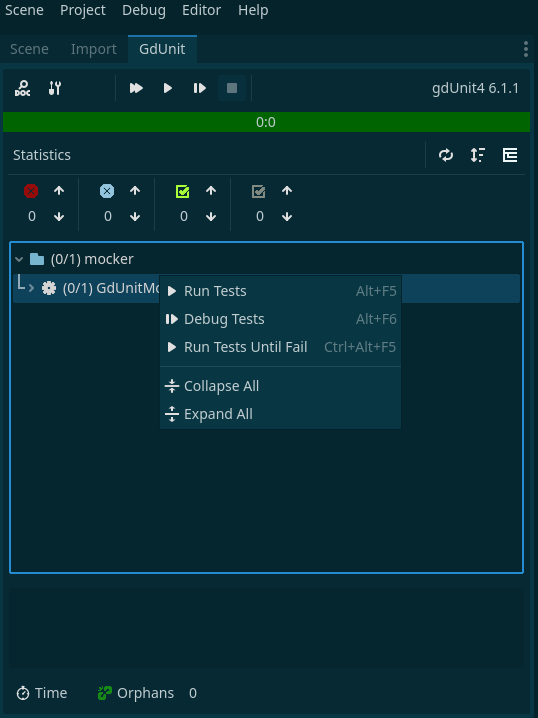
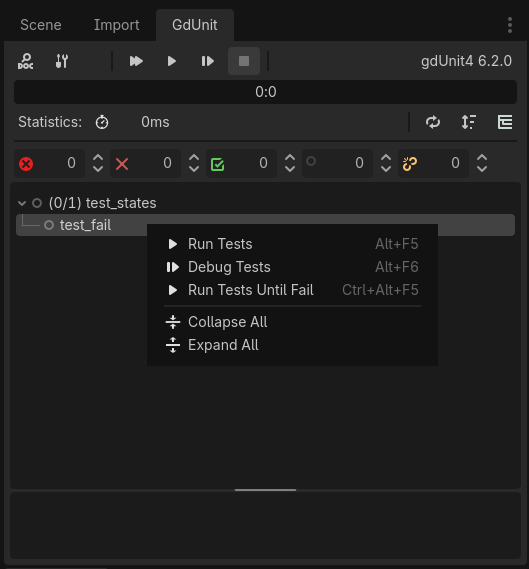
DOC-1255: Update test inspector documentation for the reworked panel (#1258)
## Why

The v6.2.0 release reworked the test inspector panel, changing the
toolbar, adding an orphan-node counter and navigation to the status bar,
giving tree entries outcome icons, and making failure call stacks
clickable in both runtime and debug mode, so the published inspector
documentation and every one of its screenshots no longer match what
users actually see in the editor.

## What

- Split the old combined run-tests page into a dedicated inspector
reference page and a separate how-to-run-tests page, since the original
mixed panel anatomy with the different ways to trigger a run
- Replaced every inspector screenshot and added small per-control icon
captures so each reference table row shows the actual button or
indicator instead of a bare number
- Corrected two inaccuracies found while updating the content, a wrong
description of the tree-resync button and a stale note claiming call
stacks are only available in debug mode
- Updated cross-page links across the first-steps and C# setup docs that
pointed at the old page or its old anchors

Closes #1255

diff --git a/documentation/doc/_first_steps/inspector.md b/documentation/doc/_first_steps/inspector.md
@@ -1,0 +1,137 @@
+---
+layout: default
+title: Test Inspector
+nav_order: 3
+---
+
+# The GdUnit Test Inspector
+
+The GdUnit Test Inspector is your entry point for running tests and reviewing their results. This page explains what each part of the inspector shows;
+for the different ways to trigger a test run, see [How to Run Tests]({{site.baseurl}}/first_steps/how-to-run-tests/).
+
+## Overview
+
+The GdUnit inspector provides an overview of the currently executed tests and allows you to navigate them.
+It allows you to select individual tests and view possible test failures, including the full call stack. The integrated status bar gives you a quick overview
+of the last test run, including elapsed time and orphan nodes.
+
+![GdUnit inspector overview]({{site.baseurl}}/assets/images/inspector/inspector.png){:.centered}
+
+- (1) [Button Bar](#button-bar)
+- (2) [Status Bar](#status-bar)
+- (3) [Test Run Overview](#test-run-overview-tree)
+- (4) [Failure Report](#failure-report)
+
+---
+
+## Button Bar
+
+The button bar contains several buttons that allow you to perform different actions in GdUnit:
+![button-bar]({{site.baseurl}}/assets/images/inspector/button-bar.png){:.centered}
+
+| Preview | Description |
+| ------- | ----------- |
+| ![doc button]({{site.baseurl}}/assets/images/inspector/icons/btn-doc.png) | Opens the GdUnit documentation page in your browser |
+| ![settings button]({{site.baseurl}}/assets/images/inspector/icons/btn-settings.png) | Opens the GdUnit settings window |
+| ![run overall button]({{site.baseurl}}/assets/images/inspector/icons/btn-run-overall.png) | Run Overall tests |
+| ![run button]({{site.baseurl}}/assets/images/inspector/icons/btn-run.png) | (Re)Run the tests in runtime mode |
+| ![debug button]({{site.baseurl}}/assets/images/inspector/icons/btn-debug.png) | (Re)Run the tests in debug mode |
+| ![stop button]({{site.baseurl}}/assets/images/inspector/icons/btn-stop.png) | Stops the current test run |
+|  | Displays the version of GdUnit |
+
+Note that the keyboard shortcuts for these buttons may vary depending on your specific GdUnit configuration.
+
+### The Run Overall Button
+
+The **Run Overall** button provides a convenient way to execute all the tests in your project at once, instead of running them one by one or selecting
+a custom set of tests. By clicking the "Run Overall" button, you can initiate the execution of all the tests in your project, saving you time and effort.
+![overall-button]({{site.baseurl}}/assets/images/inspector/overall-button.png){:.centered}
+To enable the **Run Overall** button in GdUnit4, you need to adjust the [UI settings]({{site.baseurl}}/first_steps/settings/#ui-settings).<br>
+Once you have enabled the **Run Overall** button, it should be visible in the inspector.
+
+---
+
+## Status Bar
+
+This area gives you information about the current/last test execution, such as the progress, the elapsed time, and errors/failures/orphans found.<br>
+With the arrow buttons, you can navigate back and forth over found failures, errors, flaky tests, skipped tests, and orphan nodes.<br>
+![status-bar]({{site.baseurl}}/assets/images/inspector/status-bar.png){:.centered}
+
+- **Indicators**
+
+    | Preview | Description |
+    | ------- | ----------- |
+    | ![progress indicator]({{site.baseurl}}/assets/images/inspector/icons/count-progress.png) | Test execution progress (indicator of test run) |
+    | ![error count]({{site.baseurl}}/assets/images/inspector/icons/count-error.png)   | Number of errors (parse/runtime errors) |
+    | ![failure count]({{site.baseurl}}/assets/images/inspector/icons/count-failed.png)  | Number of failures                      |
+    | ![flaky count]({{site.baseurl}}/assets/images/inspector/icons/count-flaky.png)   | Number of flaky tests                   |
+    | ![skipped count]({{site.baseurl}}/assets/images/inspector/icons/count-skipped.png) | Number of skipped tests                 |
+    | ![orphan count]({{site.baseurl}}/assets/images/inspector/icons/count-orphan.png)  | Number of detected orphan nodes         |
+
+- **Controls**
+
+    | Preview | Description |
+    | ------- | ----------- |
+    | ![rediscover tests]({{site.baseurl}}/assets/images/inspector/icons/action-refresh.png) | Rediscover tests (rescans the project for testsuites without running them) |
+    | ![sort mode]({{site.baseurl}}/assets/images/inspector/icons/action-sort.png)    | Change sort tree mode (asc/desc/time)                                      |
+    | ![tree presentation]({{site.baseurl}}/assets/images/inspector/icons/action-tree.png)    | Change the test tree presentation (tree/flat)                              |
+
+- **Sorting Options**
+
+    The sorting option controls how the test results are displayed in the inspector tree. You can sort the results by:
+
+  - **Unsorted**: The natural order.
+  - **Name Ascending**: Sorts the test cases alphabetically from A to Z.
+  - **Name Descending**: Sorts the test cases alphabetically from Z to A.
+  - **Test Execution Time**: Sorts the test cases based on the time they took to execute, from longest to shortest.
+
+- **Tree Presentation**
+
+    The tree presentation setting allows you to switch between two views:
+
+  - **Flat View**: Displays all test cases in a single, flat list without any hierarchical structure.
+  - **Tree View**: Displays test cases in a hierarchical structure, reflecting the path of your test files and suites.
+
+---
+
+## Test Run Overview Tree
+
+This area provides an overview of all executed/executing tests and their execution status in real-time. Each entry shows its execution time and, when a
+test was retried (for example a flaky test or a test run with
+[**Run Tests Until Fail**]({{site.baseurl}}/first_steps/how-to-run-tests/#using-the-inspector-context-menu)),
+the number of retries. Here, you can navigate through the tests and view the report for each individual test by selecting it. You can also run the
+currently selected test or test suite again by right-clicking to open a context menu.
+![test-overview]({{site.baseurl}}/assets/images/inspector/test-overview.png){:.centered}
+
+Each test is prefixed with an icon showing its outcome:
+
+| Icon | Meaning |
+| ---- | ------- |
+| ![passed icon]({{site.baseurl}}/assets/images/inspector/icons/state-success.png) | Passed |
+| ![failed icon]({{site.baseurl}}/assets/images/inspector/icons/state-failed.png) | Failed (a used assert reported a mismatch) |
+| ![error icon]({{site.baseurl}}/assets/images/inspector/icons/state-error.png) | Error (an unhandled runtime error or script error) |
+| ![flaky icon]({{site.baseurl}}/assets/images/inspector/icons/state-flaky.png) | Flaky (failed at least once but passed on retry) |
+| ![skipped icon]({{site.baseurl}}/assets/images/inspector/icons/state-skipped.png) | Skipped |
+| ![orphan icon]({{site.baseurl}}/assets/images/inspector/icons/state-orphan.png) | Orphan nodes detected — shown instead of the pass/fail icon, even if the test itself passed |
+
+{% include advice.html
+content="Whats the difference between errors and failures?<br>
+GdUnit distinguishes between errors and failures. An error is a hard failure such as a test abort or timeout, while a failure is a test error caused
+by a failed assertion."
+%}
+
+{% include advice.html
+content="Double-clicking on a test in the test run overview jumps directly to the test, or to the failing line if a failure was reported."
+%}
+
+---
+
+## Failure Report
+
+This area displays the failure report of the currently selected failed test.<br>
+GdUnit generates the failure report based on the used assert, according to the scheme **expected** vs **current** value, followed by the full call stack
+that led to the failure. Every stack frame is clickable and jumps straight to the corresponding source line.
+![report]({{site.baseurl}}/assets/images/inspector/report.png){:.centered}
+
+For tests with detected orphan nodes, this area reports differently — see
+[Orphan Nodes or Leaking Memory]({{site.baseurl}}/advanced_testing/orphan/) for details.

diff --git a/documentation/doc/_first_steps/how-to-run-tests.md b/documentation/doc/_first_steps/how-to-run-tests.md
@@ -1,0 +1,57 @@
+---
+layout: default
+title: How to Run Tests
+nav_order: 4
+---
+
+# How to Run Tests
+
+Running tests in GdUnit is a straightforward process, and you have several options to choose from:
+
+## Using the GdUnit Inspector
+
+The GdUnit Inspector provides various options to run single unit tests or sets of testsuites:
+
+- **Using the Button Bar**: You can use the buttons available in the GdUnit Inspector's to run tests.<br>
+Refer to the [Button Bar]({{site.baseurl}}/first_steps/inspector/#button-bar) section for more details.
+
+- **Using the Inspector Tree**: The Inspector Tree allows you to run tests from a hierarchical view.<br>
+Explore the [Test Run Overview Tree]({{site.baseurl}}/first_steps/inspector/#test-run-overview-tree) section for instructions on running tests using this approach.
+
+- **Using the Run Overall Button**: The **Run Overall** button enables you to run all tests at once.<br>
+Find more information in the [Run Overall Button]({{site.baseurl}}/first_steps/inspector/#the-run-overall-button) section.
+
+## Using the Editor Context Menu
+
+The Editor Context Menu provides options to run or debug individual test cases or entire testsuites:
+
+- **Using the Context Menu**: You can right-click on a specific test case or testsuite in the editor and select the appropriate option from the context menu.
+
+For detailed steps, refer to the [Using the Context Menu]({{site.baseurl}}/first_steps/getting-started/#execute-your-test) section.
+
+## Using the FileSystem Context Menu
+
+The FileSystem Context Menu allows you to run or debug individual testsuites or sets of testsuites by selecting the desired testsuite or folder. The
+context menu is context-sensitive: selecting a folder runs or debugs every testsuite it contains, while selecting a single script runs or debugs only
+that testsuite.
+
+![FileSystem Context Menu (folder selected)]({{site.baseurl}}/assets/images/inspector/run-test-filesystem-folder.png){:.centered}
+
+![FileSystem Context Menu (file selected)]({{site.baseurl}}/assets/images/inspector/run-test-filesystem-file.png){:.centered}
+
+These options provide flexibility in running tests based on your preferences and requirements.
+
+## Using the Inspector Context Menu
+
+The Inspector Context Menu provides options to run, debug, or manage the selected test or test suite directly from the Test Run Overview Tree.
+Right-click any item in the tree to open the context menu.
+
+![inspector-context-menu]({{site.baseurl}}/assets/images/inspector/inspector-context-menu.png){:.centered}
+
+| Command | Description |
+| ------- | ----------- |
+| **Run Tests** | Runs the selected test or test suite in runtime mode. |
+| **Debug Tests** | Runs the selected test or test suite in debug mode. |
+| **Run Tests Until Fail** | Repeatedly runs the selected test or test suite until a failure occurs. Useful for investigating flaky tests. The number of retries is configured via [Rerun Until Failure Retries]({{site.baseurl}}/first_steps/settings/#common-settings) in settings. |
+| **Expand All** | Expands all nodes in the test run overview tree. |
+| **Collapse All** | Collapses all nodes in the test run overview tree. |

diff --git a/documentation/doc/_first_steps/getting-started.md b/documentation/doc/_first_steps/getting-started.md
@@ -1,7 +1,7 @@
 ---
 layout: default
 title: Getting Started
-nav_order: 4
+nav_order: 5
 ---
 
 # Getting Started with GDScript Tests
@@ -41,7 +41,7 @@ To create a test in GdUnit4, you can use the built-in "Create Test" function. Fo
 
 We have selected the full_name function to generate a test for it. The test has been automatically created using the built-in **Create Test** function.
 Congratulations, you have now created your first test!<br>
-More detailed information about naming conventions and the definition of test cases [can be found here]({{site.baseurl}}/testing/first-test/#gdunit4-testcase-definition)
+More detailed information about naming conventions and the definition of test cases [can be found here]({{site.baseurl}}/testing/test-case/#testcase-definition)
 
 The generated test case should look like this:
 ![generated-test-suite]({{site.baseurl}}/assets/images/first-steps/generated-test-suite.png){:.centered}
@@ -93,7 +93,7 @@ func test_full_name() -> void:
 
 Now, run the test again by pressing the **ReRun Debug** button in the inspector.<br>
 ![rerun-test]({{site.baseurl}}/assets/images/first-steps/rerun-test.png){:.centered}
-For more details about the inspector buttons, see [Button Bar]({{site.baseurl}}/testing/run-tests/#button-bar)
+For more details about the inspector buttons, see [Button Bar]({{site.baseurl}}/first_steps/inspector/#button-bar)
 
 The test failure is fixed but now we get a warning!
 

diff --git a/documentation/doc/_first_steps/install.md b/documentation/doc/_first_steps/install.md
@@ -69,5 +69,5 @@ for more details <a href=\"../../faq/solutions/#scriptresource-errors-after-the-
 
 After successfully installing and activating the GdUnit4 plugin, you will find the GdUnit4 inspector in the upper left corner of the Godot editor.
 
-* For detailed information about the inspector, please refer to the [GdUnit Inspector]({{site.baseurl}}/testing/run-tests/#the-gdunit-test-inspectorexplorer)
+* For detailed information about the inspector, please refer to the [GdUnit Inspector]({{site.baseurl}}/first_steps/inspector/)
 ![activate-gdunit-step3]({{site.baseurl}}/assets/images/install/activate-gdunit-step3.png)

diff --git a/documentation/doc/_csharp_project_setup/csharp-setup.md b/documentation/doc/_csharp_project_setup/csharp-setup.md
@@ -107,7 +107,7 @@ The output should indicate that the project is built successfully.
 
 ### Running C# Tests inside the Godot Editor
 
-How to [run test]({{site.baseurl}}/first_steps/run-tests/#how-to-run-test)
+How to [run test]({{site.baseurl}}/first_steps/how-to-run-tests/)
 
 ## Using External C# Editor
 
